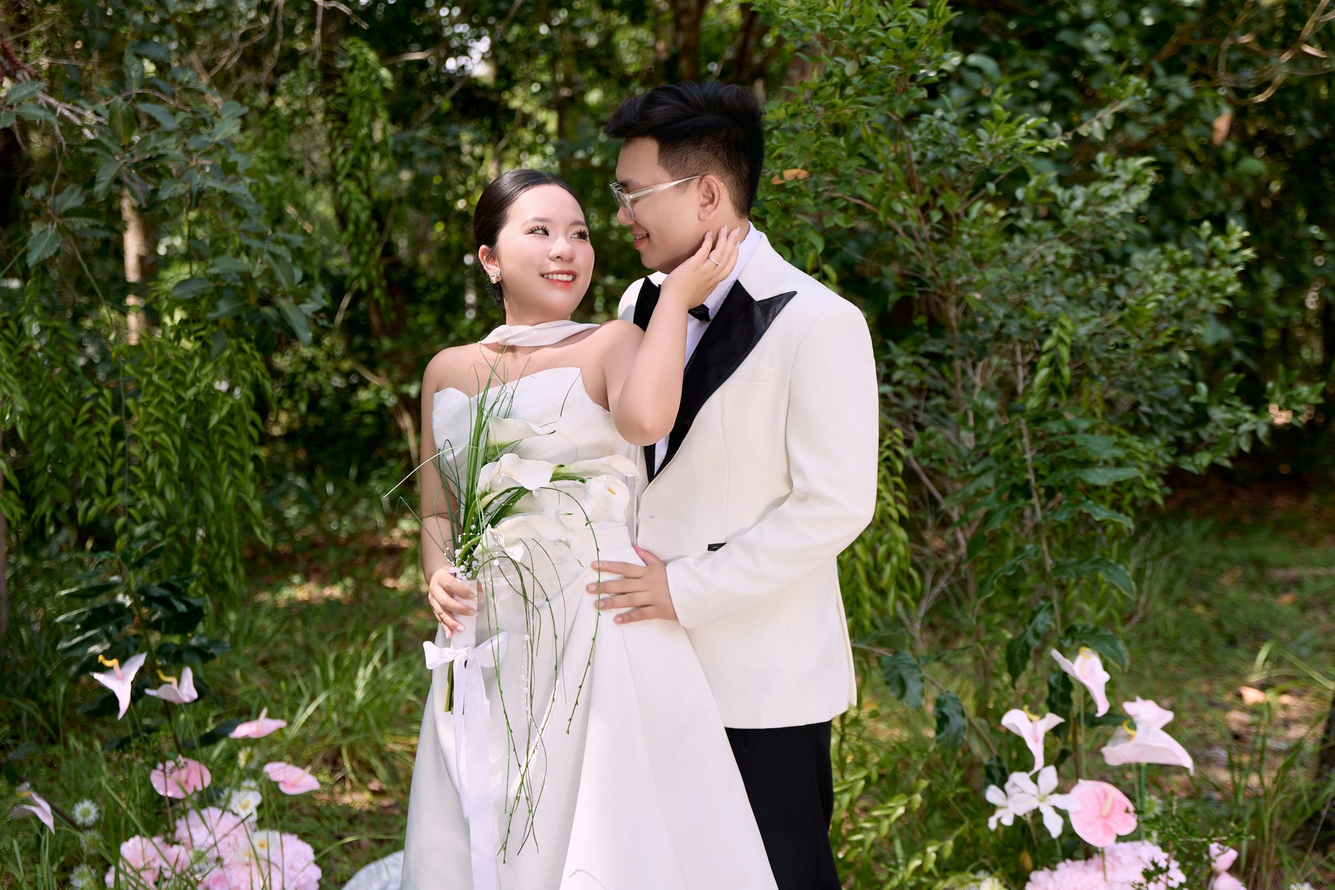
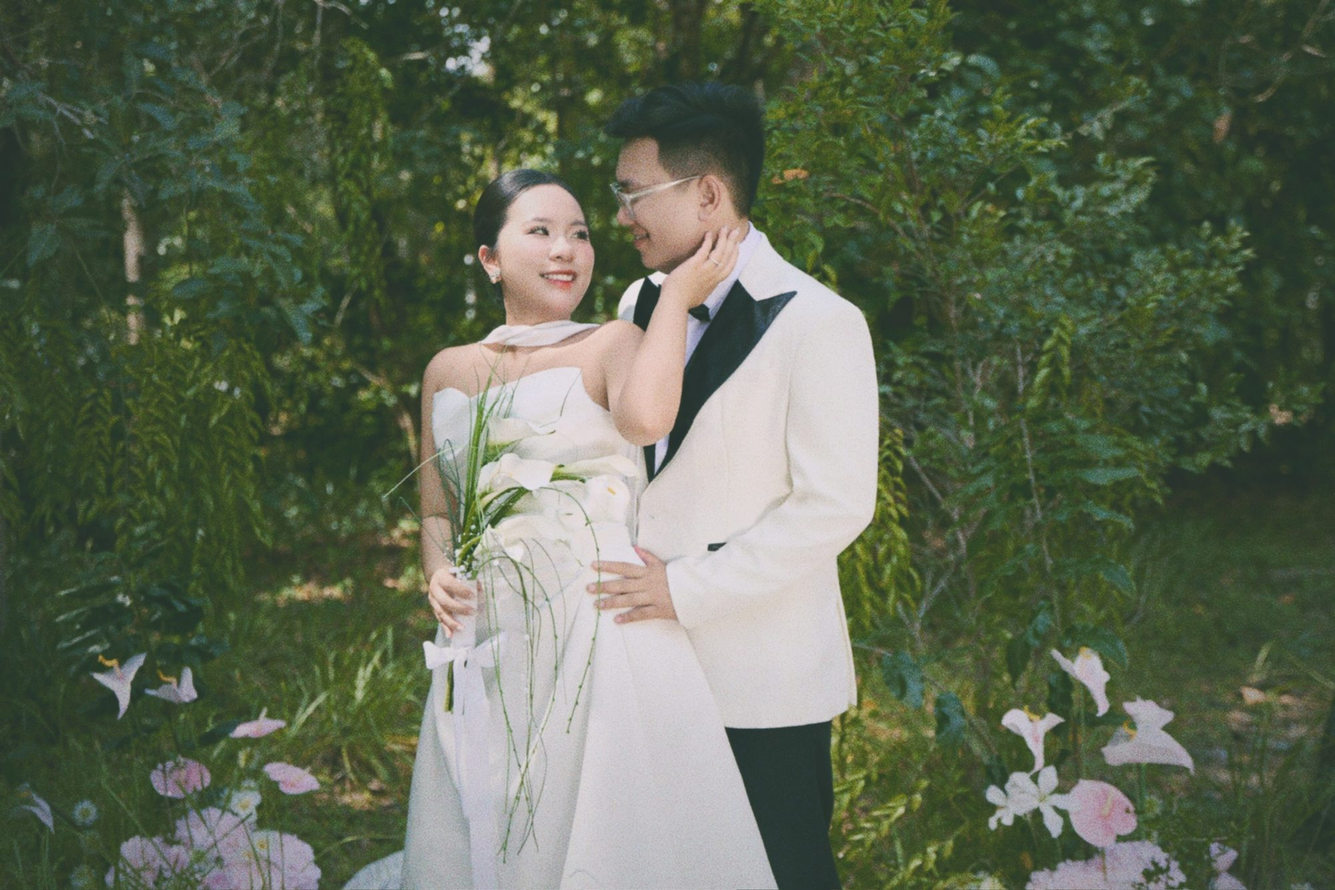
Take the new grade of the three photographs, and drop the cut-out
The intro, the countdown and the closing photograph are all replaced with
the warmer, grainier grade. The originals go back out of the tree once
they are resized, as every other upload has.

The intro frame needed a crop of its own rather than the browser's. It is
a full-length shot with an orange light leak across the top, and letting
object-fit take equal slices off both ends kept the leak and left the two
of them small inside a 360px mount. Cropping to 3:4 before resizing drops
the leak, holds their feet and brings them forward.

The cut-out beside the schedule goes: the file, the markup, the styles,
the deferred load and the position:relative that only existed to hold it.

The share card carried the old intro photograph, which after this would
have been a picture that appears nowhere on the page, so it is rebuilt.

The new grade is darker than what it replaces, so the type over both
photographs sits easier than before: the countdown reads 5.48:1 at its
worst and the footer 6.29:1, against 5.28 and 5.91.

Claude-Session: https://claude.ai/code/session_01TDJqq9dBQLZbZ7BwbKWCxc

diff --git a/style.css b/style.css
@@ -923,63 +923,6 @@ body.is-revealing .std-card {
 
 /* The couple, cut out and standing beside the schedule. The list is 460px wide
    inside a 1080px container, so on a wide screen they take the empty right
-   margin and the list does not move: every heading on the page stays on its
-   centre line, which one asymmetric block would break. */
-.timeline-section {
-  position: relative;
-}
-
-/* The width and height attributes give the box its shape before the file is
-   fetched, so the space is already held and revealing it moves nothing. On a
-   phone this sits in the flow, and hiding it outright made the page grow by
-   its whole height the moment it arrived. */
-.timeline-cutout {
-  display: block;
-  width: min(70%, 290px);
-  height: auto;
-  opacity: 0;
-  margin: 2.5rem auto 0;
-  /* The cut-out ends mid-calf, where the mask ran out against the road. A hard
-     edge there reads as a mistake; dissolving into the ground reads as intent. */
-  mask-image: linear-gradient(to bottom, #000 74%, transparent 99%);
-  -webkit-mask-image: linear-gradient(to bottom, #000 74%, transparent 99%);
-}
-
-.timeline-cutout.is-ready {
-  opacity: 1;
-}
-
-@media (prefers-reduced-motion: no-preference) {
-  .timeline-cutout {
-    transition: opacity 0.5s ease;
-  }
-}
-
-/* Only a file that never arrives collapses the space it was holding */
-.timeline-cutout[hidden] {
-  display: none;
-}
-
-/* Only from 1024px: the schedule is a fixed 460px column in the middle of the
-   section, so the room beside it is whatever the window has spare. Below this
-   there is not enough of it, and a figure sized to fit would be a thumbnail --
-   worse than the full-width one the flow already gives. */
-@media (min-width: 1024px) {
-  .timeline-cutout {
-    position: absolute;
-    /* 5.5rem is the section's own block padding, so they stand on the bottom
-       of the last row rather than on the section below. */
-    bottom: 5.5rem;
-    right: var(--section-pad);
-    /* Sized off that spare room rather than guessed at: half the window, less
-       the padding, less half the schedule column, less the gutter that keeps
-       them clear of the two addresses. Guessing left them lapping over "Đón
-       khách" just above 900px and a hair from the addresses on a laptop. */
-    width: min(420px, calc(50vw - var(--section-pad) - 262px));
-    margin: 0;
-  }
-}
-
 /* Gallery */
 .gallery {
   text-align: center;

diff --git a/script.js b/script.js
@@ -155,21 +155,6 @@ if (countdownSection && countdownPhoto) {
   whenLoaded(countdownPhoto, usePhoto);
 }
 
-/* Held back like the countdown photograph, and for the same reason: it is
-   hidden until it loads, and a lazy image inside a display:none box never
-   enters the viewport, so it would wait for a scroll that can never reach it. */
-const timelineCutout = document.getElementById("timelineCutout");
-
-if (timelineCutout) {
-  whenLoaded(timelineCutout, () => {
-    timelineCutout.classList.add("is-ready");
-  });
-
-  timelineCutout.addEventListener("error", () => {
-    timelineCutout.hidden = true;
-  });
-}
-
 /* The band is painted the deep tone underneath, so the white names are legible
    from the first paint rather than flashing white on sand while the bytes are
    in the air. If the file never arrives at all, the footer drops back to the
@@ -218,7 +203,6 @@ function unlockPage() {
   window.scrollTo({ top: 0, behavior: "instant" });
 
   loadDeferred(countdownPhoto);
-  loadDeferred(timelineCutout);
 
   const firstSection = document.querySelector(".save-the-date");
   if (firstSection) {

diff --git a/index.html b/index.html
@@ -380,10 +380,6 @@
           <span class="timeline-label">Kết thúc tiệc</span>
         </li>
       </ol>
-
-      <img class="timeline-cutout" id="timelineCutout"
-           data-src="assets/couple-cutout.webp" width="700" height="856"
-           alt="" aria-hidden="true" decoding="async">
     </section>
 
     <section class="gallery band" aria-labelledby="gallery-heading">

diff --git a/assets/README.md b/assets/README.md
@@ -37,12 +37,14 @@ desktops the 2000px one.
 
 - These are generated, not uploaded. Upload the original at any size and it
   gets resized and compressed into this pair. The current one came from a
-  5410x3606 original of 13.3 MB, which became 512 KB and 225 KB.
+  2560x1707 original of 1.0 MB, which became 446 KB and 186 KB.
 - **Landscape**, roughly 3:2. The band crops to a wide strip, so the top and
   bottom of the original are cut.
 - Keep the couple in the upper half. The countdown sits along the bottom of
   the band, under a scrim that is heaviest there, so faces belong above it.
-  `object-position: center 28%` in `style.css` is what decides that crop.
+  `object-position: center 28%` in `style.css` is what decides that crop. On a
+  desktop that takes the top off a raised arm in the current picture, which a
+  wide band does and is not worth chasing; both faces sit well inside it.
 - Without these files the countdown stays the plain section it was, with dark
   text on sand. Nothing breaks.
 
@@ -64,32 +66,20 @@ copy handed out by `srcset`. Twelve originals totalling 13.3 MB became 2.7 MB.
 ## `intro-1000.jpg` and `intro-600.jpg`
 
 The portrait photograph beside the Lời ngỏ text, in a 1000px and a 600px copy
-handed out by `srcset`. Generated from a 10.2 MB upload.
+handed out by `srcset`. Generated from a 1707x2560 upload of 1.0 MB.
 
-- **Portrait.** The slot is 3:4 and the source is 2:3, so a little comes off
-  the top and bottom. Keep faces away from the very top and bottom edges.
+- **Portrait.** The slot is 3:4. The current source is 2:3 and was cropped to
+  3:4 before resizing, at `(69, 450, 1531, 2400)`, rather than left to the
+  browser: the frame it came in is a full-length shot with an orange light leak
+  across the top, and letting `object-fit` take equal slices off both ends kept
+  the leak and left the couple small in a 360px mount. The crop drops the leak
+  and holds their feet. Do the same for a replacement rather than assuming the
+  numbers still fit: they are particular to that frame.
+- Keep faces away from the very top and bottom edges.
 - It sits mounted and centred above the words at every width, inside a sand
   mat and a hairline rule, like a photograph mounted on the invitation.
 - Use a different photograph from the three in the gallery, or the same
   picture appears twice on one page.
-
-## `couple-cutout.webp`
-
-The couple cut out of their background, standing beside the day's schedule.
-
-- Generated, not uploaded: the original `couple.jpg` was cut with rembg and
-  saved as WebP with alpha, 59 KB against 547 KB for the same picture as PNG.
-- The mask ran out mid-calf against the road, so the CSS fades the bottom of
-  the image into the ground. A hard edge there would read as a mistake.
-- From 1024px it stands in the margin beside the schedule, sized off the room
-  actually left over rather than a guessed clamp: the schedule is a fixed
-  460px column in the middle of the section, so the space beside it is
-  whatever the window has spare. Below 1024px there is not enough of that
-  room, and it drops into the flow under the last row instead.
-- To replace it, upload a new original and it gets cut and converted again.
-  A plain, contrasting background cuts cleanly; a translucent veil against
-  busy foliage does not.
-- Without the file the schedule stays exactly as it was.
 
 ## `closing-2000.jpg` and `closing-1200.jpg`
 
@@ -99,9 +89,8 @@ set over it. Two sizes of the same picture, handed out by `srcset`.
 - These are generated, not uploaded. Upload the original at any size and it
   gets resized and compressed into this pair, the same way the countdown
   photograph was.
-- **Landscape.** The current pair came from a 5398x3599 original of 11.2 MB,
-  which became 415 KB and 187 KB. The original is not kept, the same as the
-  album and the cut-out: it is in the history if it is ever wanted again.
+- **Landscape.** The current pair came from a 2560x1707 original of 0.8 MB,
+  which became 355 KB and 142 KB.
 - The footer cuts a wide band out of it, between 340 and 520 pixels tall
   depending on the window, which on a desktop throws away more than half the
   height. `object-position: center 10%` in `style.css` decides which part
@@ -112,7 +101,7 @@ set over it. Two sizes of the same picture, handed out by `srcset`.
 - Keep the couple in the upper half, heads well clear of the top edge. The
   names and the thank-you sit along the bottom of the band under a scrim that
   is heaviest there, so faces belong above it. That scrim is what carries the
-  white type to 5.91:1 at its worst against the brightest thing behind it; if
+  white type to 6.29:1 at its worst against the brightest thing behind it; if
   the photograph is replaced with a much paler one, measure it again before
   shipping rather than assuming it still passes.
 - Use a picture that is not already the countdown, the Lời ngỏ portrait or one
@@ -129,7 +118,9 @@ pasted into a chat. Generated, not uploaded: the intro photograph on the left,
 the monogram, names, date and venue set in the site's own typefaces on the
 right.
 
-- Regenerated whenever the names, date or venue change. The meta tags in
+- Regenerated whenever the names, date or venue change, and whenever the intro
+  photograph is replaced: it carries that picture, so leaving it alone puts a
+  photograph in the link preview that is nowhere on the page. The meta tags in
   `index.html` point at it by absolute URL, which those services require.
 - Chat previews are cached hard. After replacing it, re-scrape the link with
   Facebook's Sharing Debugger, or the old card keeps appearing.
